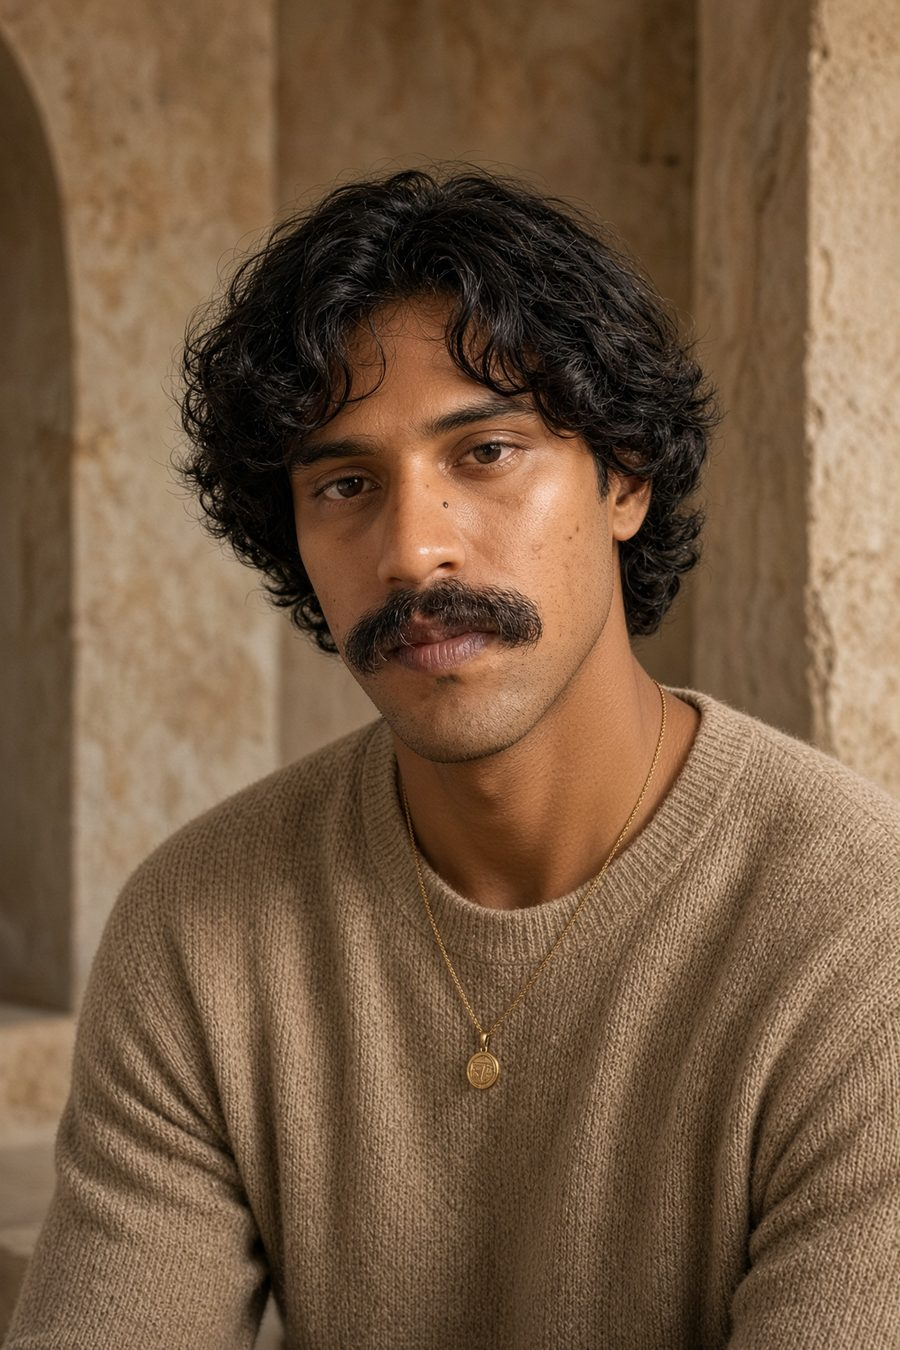
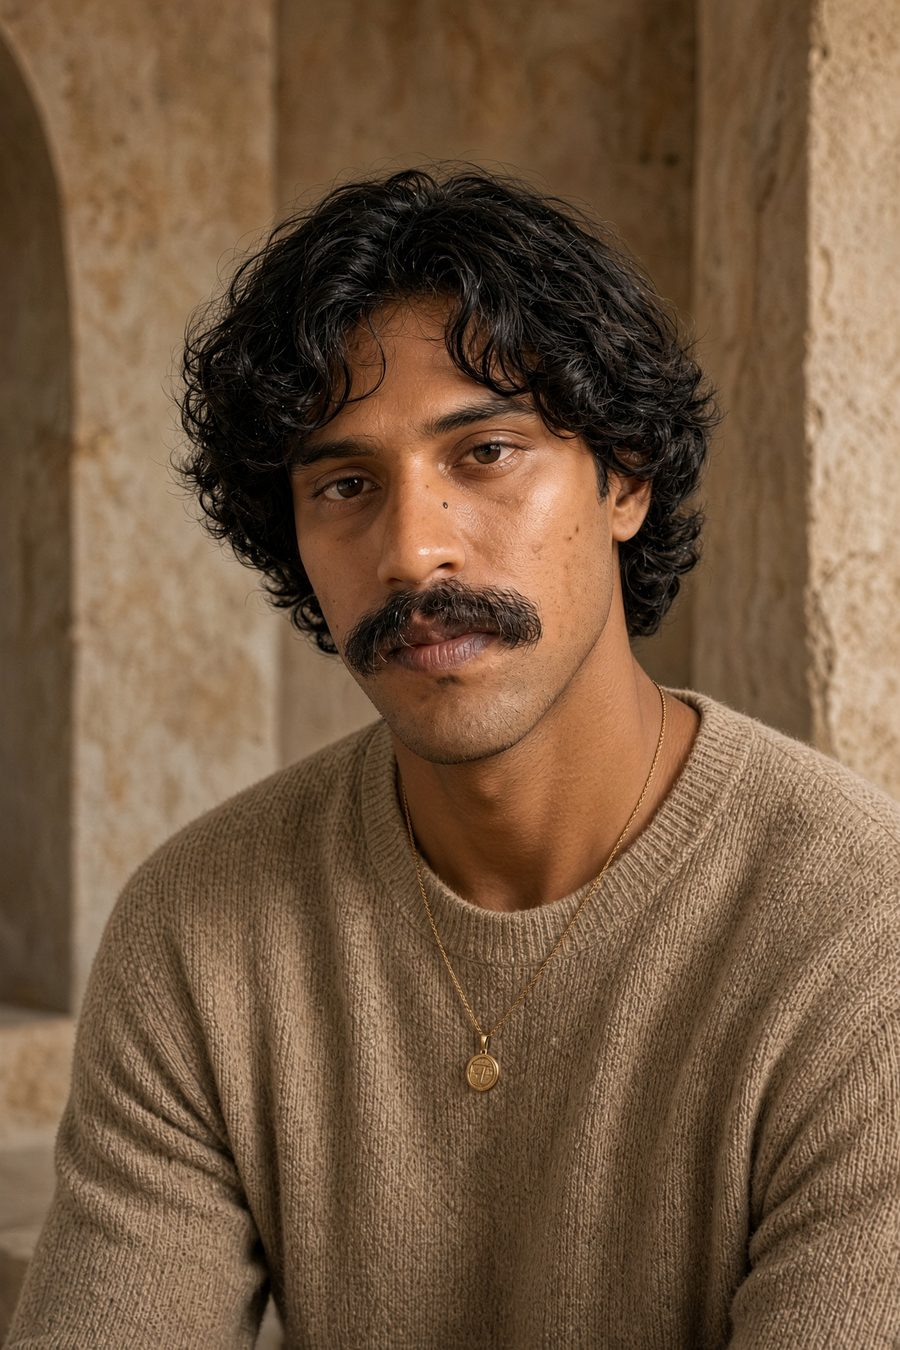
Ameniza as olheiras nos retratos do mentor

diff --git a/index.html b/index.html
@@ -15,7 +15,7 @@
 <meta property="og:url" content="https://akashahub.com.br/"/>
 <meta property="og:image" content="https://res.cloudinary.com/dcbarseus/image/upload/v1771197016/IMG_20260104_135834_828_etfko2.png"/>
 <link rel="icon" href="https://res.cloudinary.com/dcbarseus/image/upload/v1771197016/IMG_20260104_135834_828_etfko2.png"/>
-<link rel="preload" as="image" href="/img/lua-home-salon.jpg?v=yan1"/>
+<link rel="preload" as="image" href="/img/lua-home-salon.jpg?v=yan2"/>
 <link rel="prefetch" href="/converse/"/>
 <link rel="preconnect" href="https://jsonmxbuzagmwuucruem.supabase.co" crossorigin/>
 <link href="https://fonts.googleapis.com" rel="preconnect"/>
@@ -576,7 +576,7 @@
       </div>
     </div>
     <div class="hero-portrait reveal">
-      <img alt="Yan Filipe, mentor do Akasha Hub" src="/img/lua-home-salon.jpg?v=yan1"/>
+      <img alt="Yan Filipe, mentor do Akasha Hub" src="/img/lua-home-salon.jpg?v=yan2"/>
     </div>
   </div>
   <div class="explore-hint">
@@ -787,7 +787,7 @@
     <div class="legado-block">
       <div class="legado-visual reveal">
         <a href="/al/">
-          <img alt="Yan Filipe na Arquitetura de Legado" src="/img/lua-legado-spa.jpg?v=yan1"/>
+          <img alt="Yan Filipe na Arquitetura de Legado" src="/img/lua-legado-spa.jpg?v=yan2"/>
         </a>
       </div>
       <div class="reveal">
